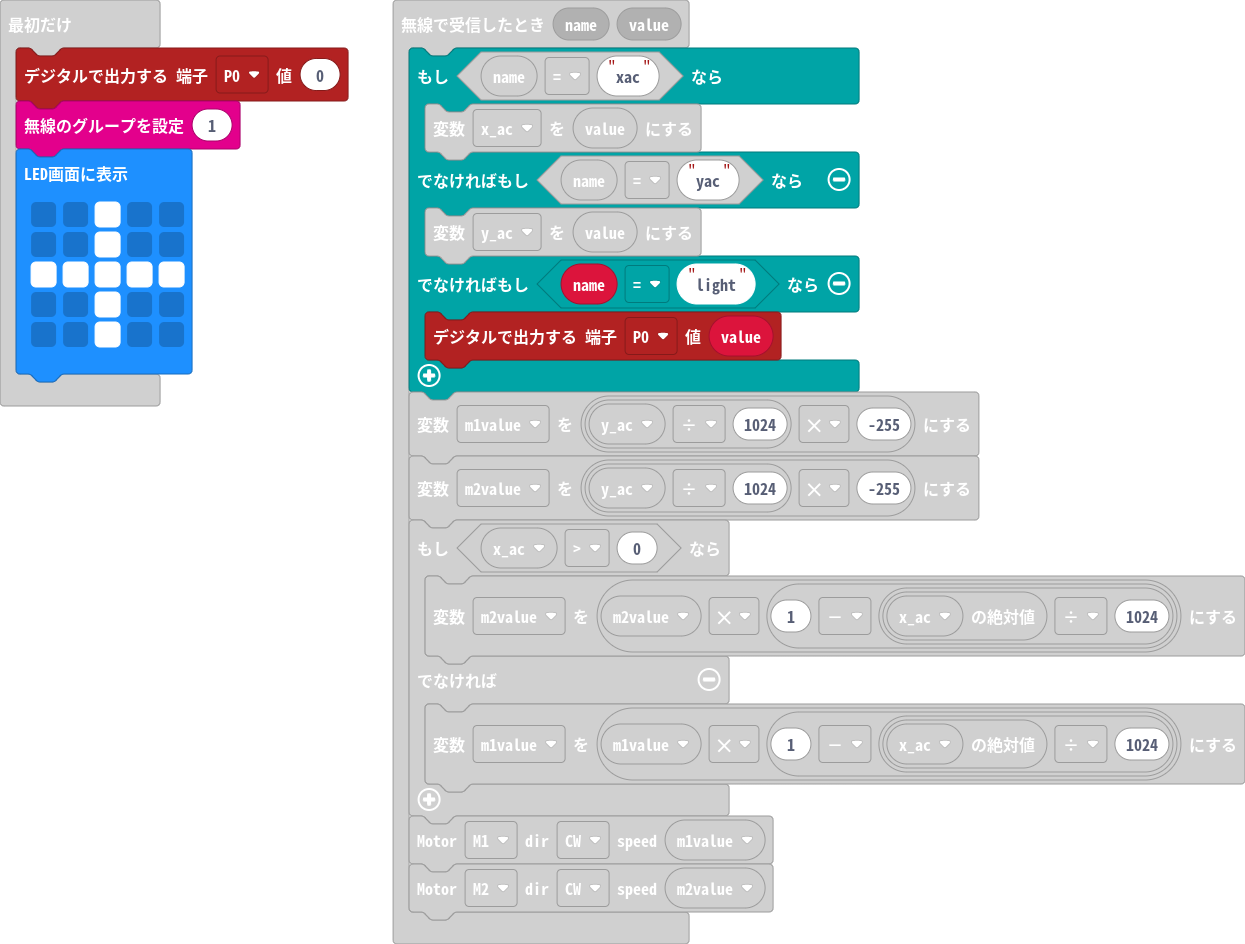
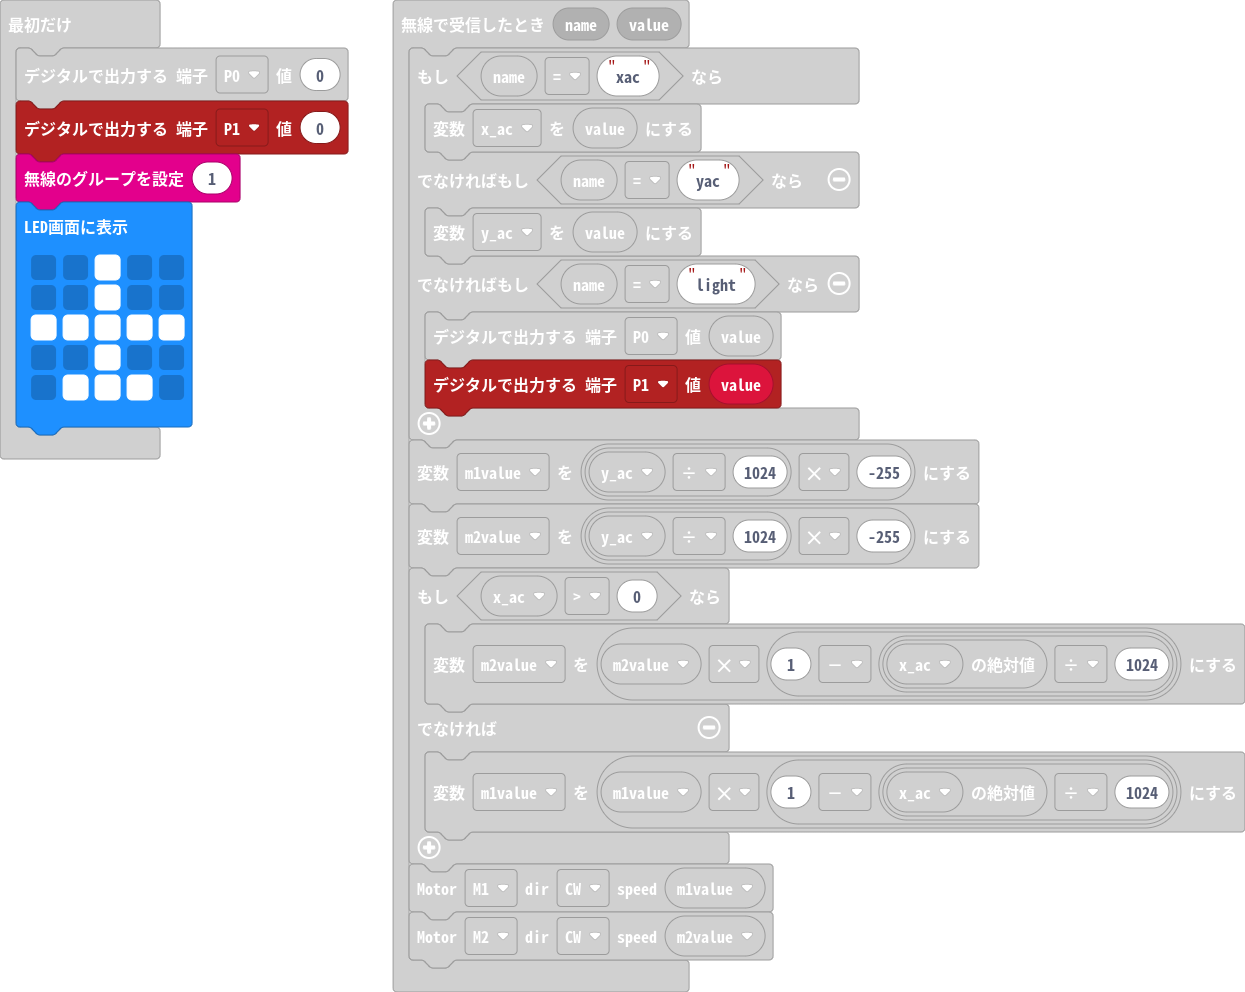
P0と同様にP1もON/OFFの対象にする

Changed region(s): [[0.0, 0.0307, 1.0, 0.9831]]

diff --git a/main.ts b/main.ts
@@ -5,6 +5,7 @@ radio.onReceivedValue(function (name, value) {
         y_ac = value
     } else if (name == "light") {
         pins.digitalWritePin(DigitalPin.P0, value)
+        pins.digitalWritePin(DigitalPin.P1, value)
     }
     m1value = y_ac / 1024 * -255
     m2value = y_ac / 1024 * -255
@@ -21,11 +22,12 @@ let m1value = 0
 let y_ac = 0
 let x_ac = 0
 pins.digitalWritePin(DigitalPin.P0, 0)
+pins.digitalWritePin(DigitalPin.P1, 0)
 radio.setGroup(1)
 basic.showLeds(`
     . . # . .
     . . # . .
     # # # # #
     . . # . .
-    . . # . .
+    . # # # .
     `)
